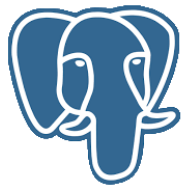
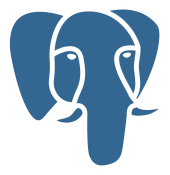
alterações nas imagens

Changed region(s): [[0.0294, 0.0, 1.0, 1.0]]

diff --git a/index.html b/index.html
@@ -515,7 +515,7 @@
                   <figure class="card">
                     <img
                       class="responsive-img stack"
-                      src="/assets/imgs/postgresql.png"
+                      src="/assets/imgs/postgre.png"
                     />
                     <figcaption>PostgreSQL</figcaption>
                   </figure>
